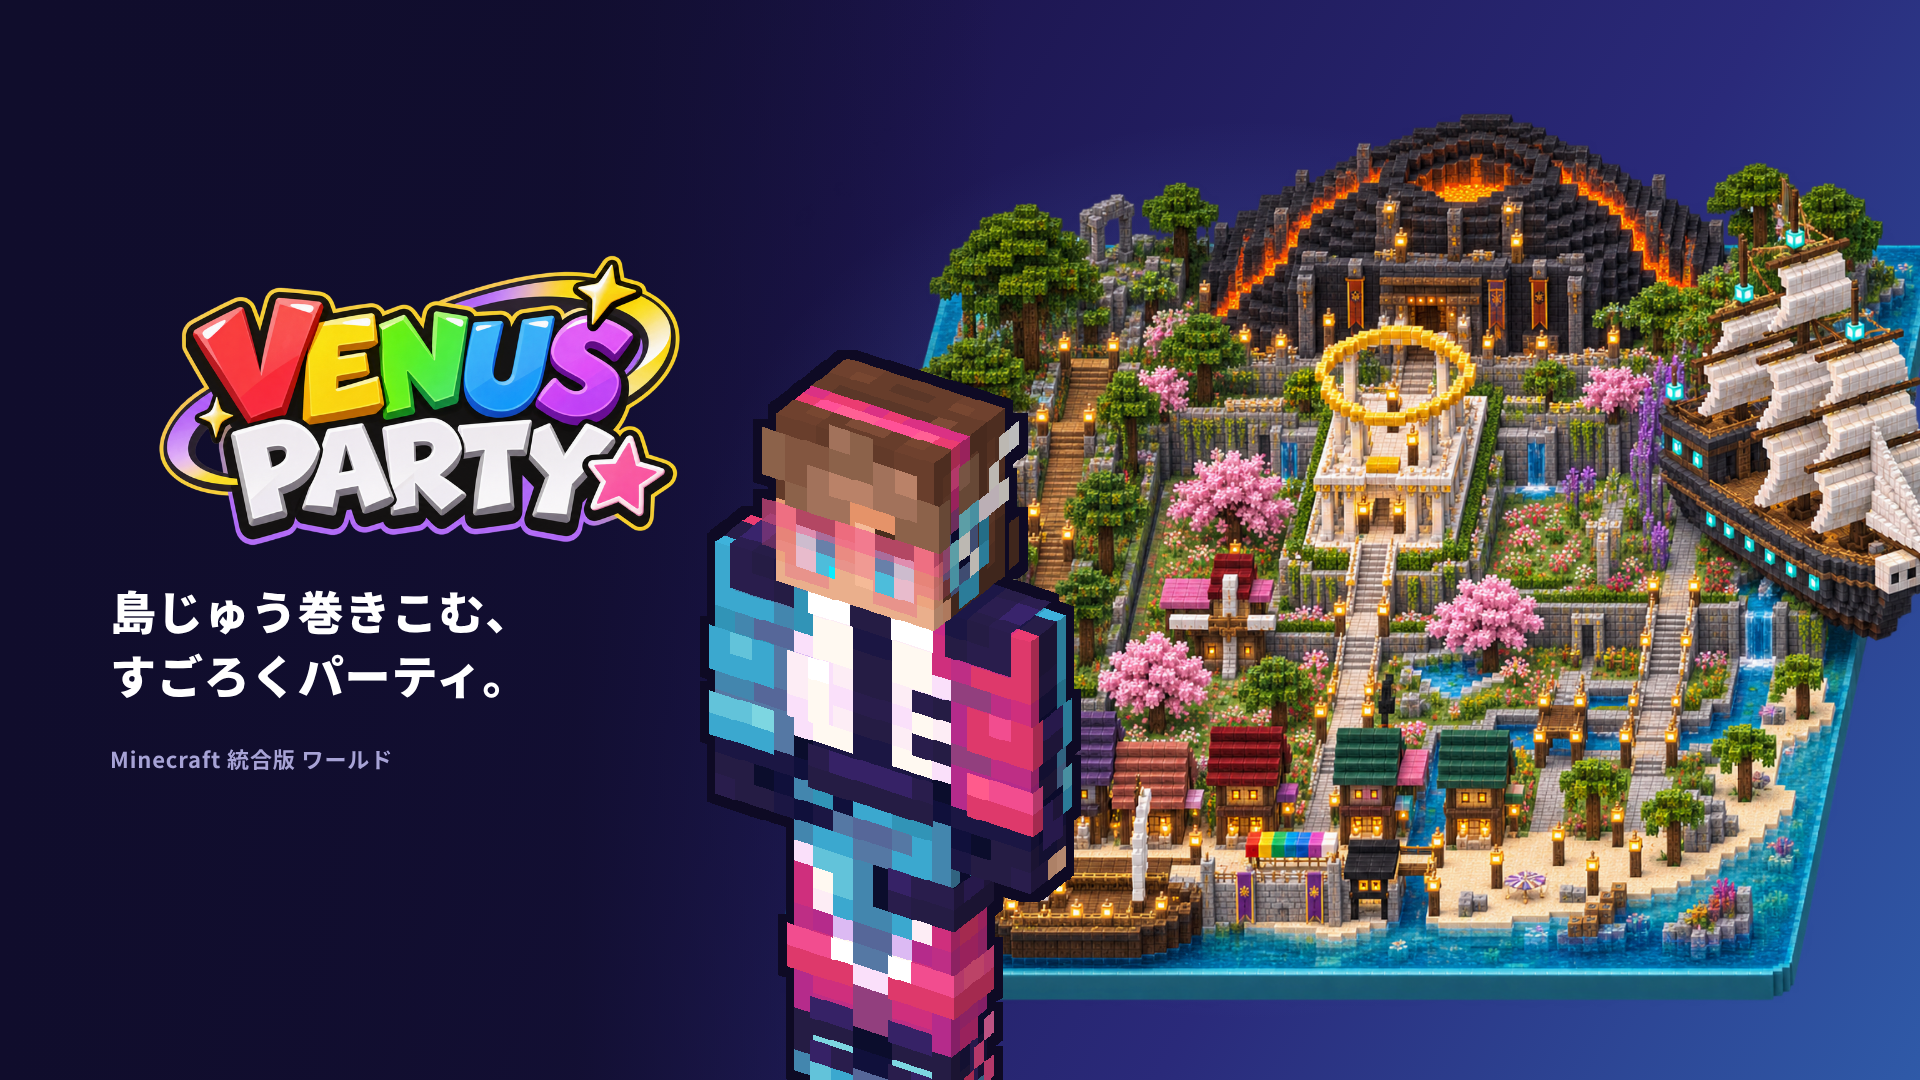
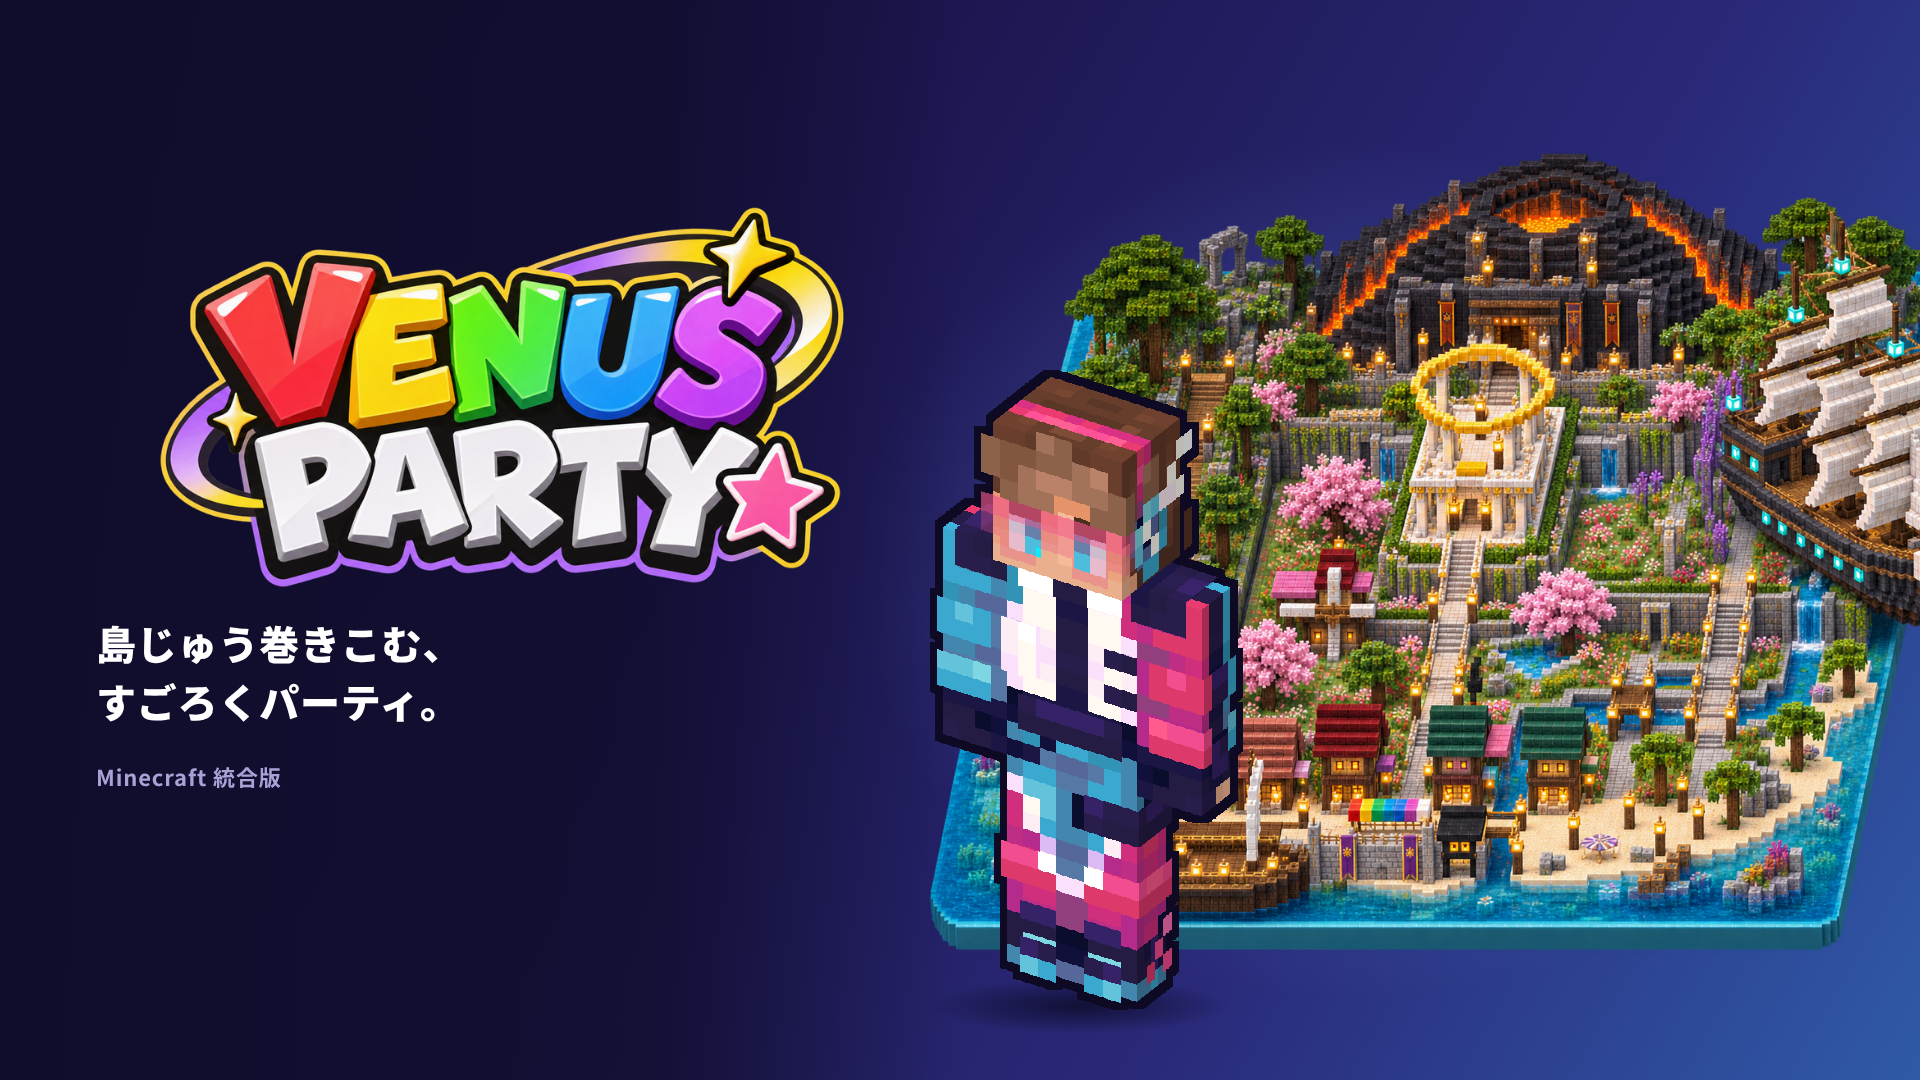
紹介画像の表紙: ロゴを大きく、DJ を全身見える位置に、Minecraft 統合版だけ
Claude-Session: https://claude.ai/code/session_01B2FgibtyYDajcCp47YzWMQ

diff --git a/mpl/promo/01_kv.html b/mpl/promo/01_kv.html
@@ -17,23 +17,24 @@ body{background:radial-gradient(1400px 900px at 70% 30%,#231a55 0%,var(--bg1) 70
 .grain{position:absolute;inset:0;background:repeating-linear-gradient(0deg,rgba(255,255,255,.015) 0 2px,transparent 2px 4px);pointer-events:none}
 
 body{background:linear-gradient(120deg,#100d2c 0%,#1d1650 38%,#2a2a7a 70%,#2f5aa8 100%)}
-.glow{position:absolute;right:120px;top:120px;width:1100px;height:900px;background:radial-gradient(closest-side,rgba(120,170,255,.35),rgba(120,170,255,0))}
-.isl{position:absolute;right:-40px;top:110px;width:1180px}
-.fade{position:absolute;inset:0;background:linear-gradient(90deg,#100d2c 0%,rgba(16,13,44,.85) 30%,rgba(16,13,44,0) 52%)}
-.dj{position:absolute;left:700px;bottom:-50px;height:780px;image-rendering:pixelated}
-.left{position:absolute;left:110px;top:250px;width:700px}
-.logo{display:block;width:640px;margin-left:-12px}
-.copy{margin-top:32px;font-weight:900;font-size:46px;line-height:1.4;letter-spacing:.02em}
-.foot{margin-top:36px;font-weight:700;font-size:22px;color:#a7a3d6;letter-spacing:.04em}
+.glow{position:absolute;right:60px;top:140px;width:1000px;height:860px;background:radial-gradient(closest-side,rgba(120,170,255,.35),rgba(120,170,255,0))}
+.isl{position:absolute;right:-70px;top:150px;width:1060px}
+.fade{position:absolute;inset:0;background:linear-gradient(90deg,#100d2c 0%,rgba(16,13,44,.8) 34%,rgba(16,13,44,0) 50%)}
+.dj{position:absolute;left:930px;bottom:70px;height:640px;image-rendering:pixelated}
+.sh{position:absolute;left:930px;bottom:46px;width:300px;height:56px;border-radius:50%;background:radial-gradient(closest-side,rgba(5,4,20,.65),rgba(5,4,20,0))}
+.left{position:absolute;left:96px;top:200px;width:860px}
+.logo{display:block;width:840px;margin-left:-16px}
+.copy{margin-top:26px;font-weight:900;font-size:40px;line-height:1.45;letter-spacing:.02em}
+.foot{margin-top:30px;font-weight:700;font-size:22px;color:#a7a3d6;letter-spacing:.04em}
 .grain{display:none}
 </style></head><body>
 <div class="glow"></div>
 <img class="isl" src="assets/island.png">
 <div class="fade"></div>
-<img class="dj" src="assets/char_dj.png">
+<div class="sh"></div><img class="dj" src="assets/char_dj.png">
 <div class="left">
   <img class="logo" src="assets/logo.png">
   <p class="copy">島じゅう巻きこむ、<br>すごろくパーティ。</p>
-  <p class="foot">Minecraft 統合版 ワールド</p>
+  <p class="foot">Minecraft 統合版</p>
 </div>
 <div class="grain"></div></body></html>

diff --git a/tools/mpl_promo.py b/tools/mpl_promo.py
@@ -32,22 +32,23 @@ pages.append(page('01_kv', f'''
 <div class="glow"></div>
 <img class="isl" src="{A}/island.png">
 <div class="fade"></div>
-<img class="dj" src="{A}/char_dj.png">
+<div class="sh"></div><img class="dj" src="{A}/char_dj.png">
 <div class="left">
   <img class="logo" src="{A}/logo.png">
   <p class="copy">島じゅう巻きこむ、<br>すごろくパーティ。</p>
-  <p class="foot">Minecraft 統合版 ワールド</p>
+  <p class="foot">Minecraft 統合版</p>
 </div>
 ''', '''
 body{background:linear-gradient(120deg,#100d2c 0%,#1d1650 38%,#2a2a7a 70%,#2f5aa8 100%)}
-.glow{position:absolute;right:120px;top:120px;width:1100px;height:900px;background:radial-gradient(closest-side,rgba(120,170,255,.35),rgba(120,170,255,0))}
-.isl{position:absolute;right:-40px;top:110px;width:1180px}
-.fade{position:absolute;inset:0;background:linear-gradient(90deg,#100d2c 0%,rgba(16,13,44,.85) 30%,rgba(16,13,44,0) 52%)}
-.dj{position:absolute;left:700px;bottom:-50px;height:780px;image-rendering:pixelated}
-.left{position:absolute;left:110px;top:250px;width:700px}
-.logo{display:block;width:640px;margin-left:-12px}
-.copy{margin-top:32px;font-weight:900;font-size:46px;line-height:1.4;letter-spacing:.02em}
-.foot{margin-top:36px;font-weight:700;font-size:22px;color:#a7a3d6;letter-spacing:.04em}
+.glow{position:absolute;right:60px;top:140px;width:1000px;height:860px;background:radial-gradient(closest-side,rgba(120,170,255,.35),rgba(120,170,255,0))}
+.isl{position:absolute;right:-70px;top:150px;width:1060px}
+.fade{position:absolute;inset:0;background:linear-gradient(90deg,#100d2c 0%,rgba(16,13,44,.8) 34%,rgba(16,13,44,0) 50%)}
+.dj{position:absolute;left:930px;bottom:70px;height:640px;image-rendering:pixelated}
+.sh{position:absolute;left:930px;bottom:46px;width:300px;height:56px;border-radius:50%;background:radial-gradient(closest-side,rgba(5,4,20,.65),rgba(5,4,20,0))}
+.left{position:absolute;left:96px;top:200px;width:860px}
+.logo{display:block;width:840px;margin-left:-16px}
+.copy{margin-top:26px;font-weight:900;font-size:40px;line-height:1.45;letter-spacing:.02em}
+.foot{margin-top:30px;font-weight:700;font-size:22px;color:#a7a3d6;letter-spacing:.04em}
 .grain{display:none}
 '''))
 # ===== 2. あそびかた =====
